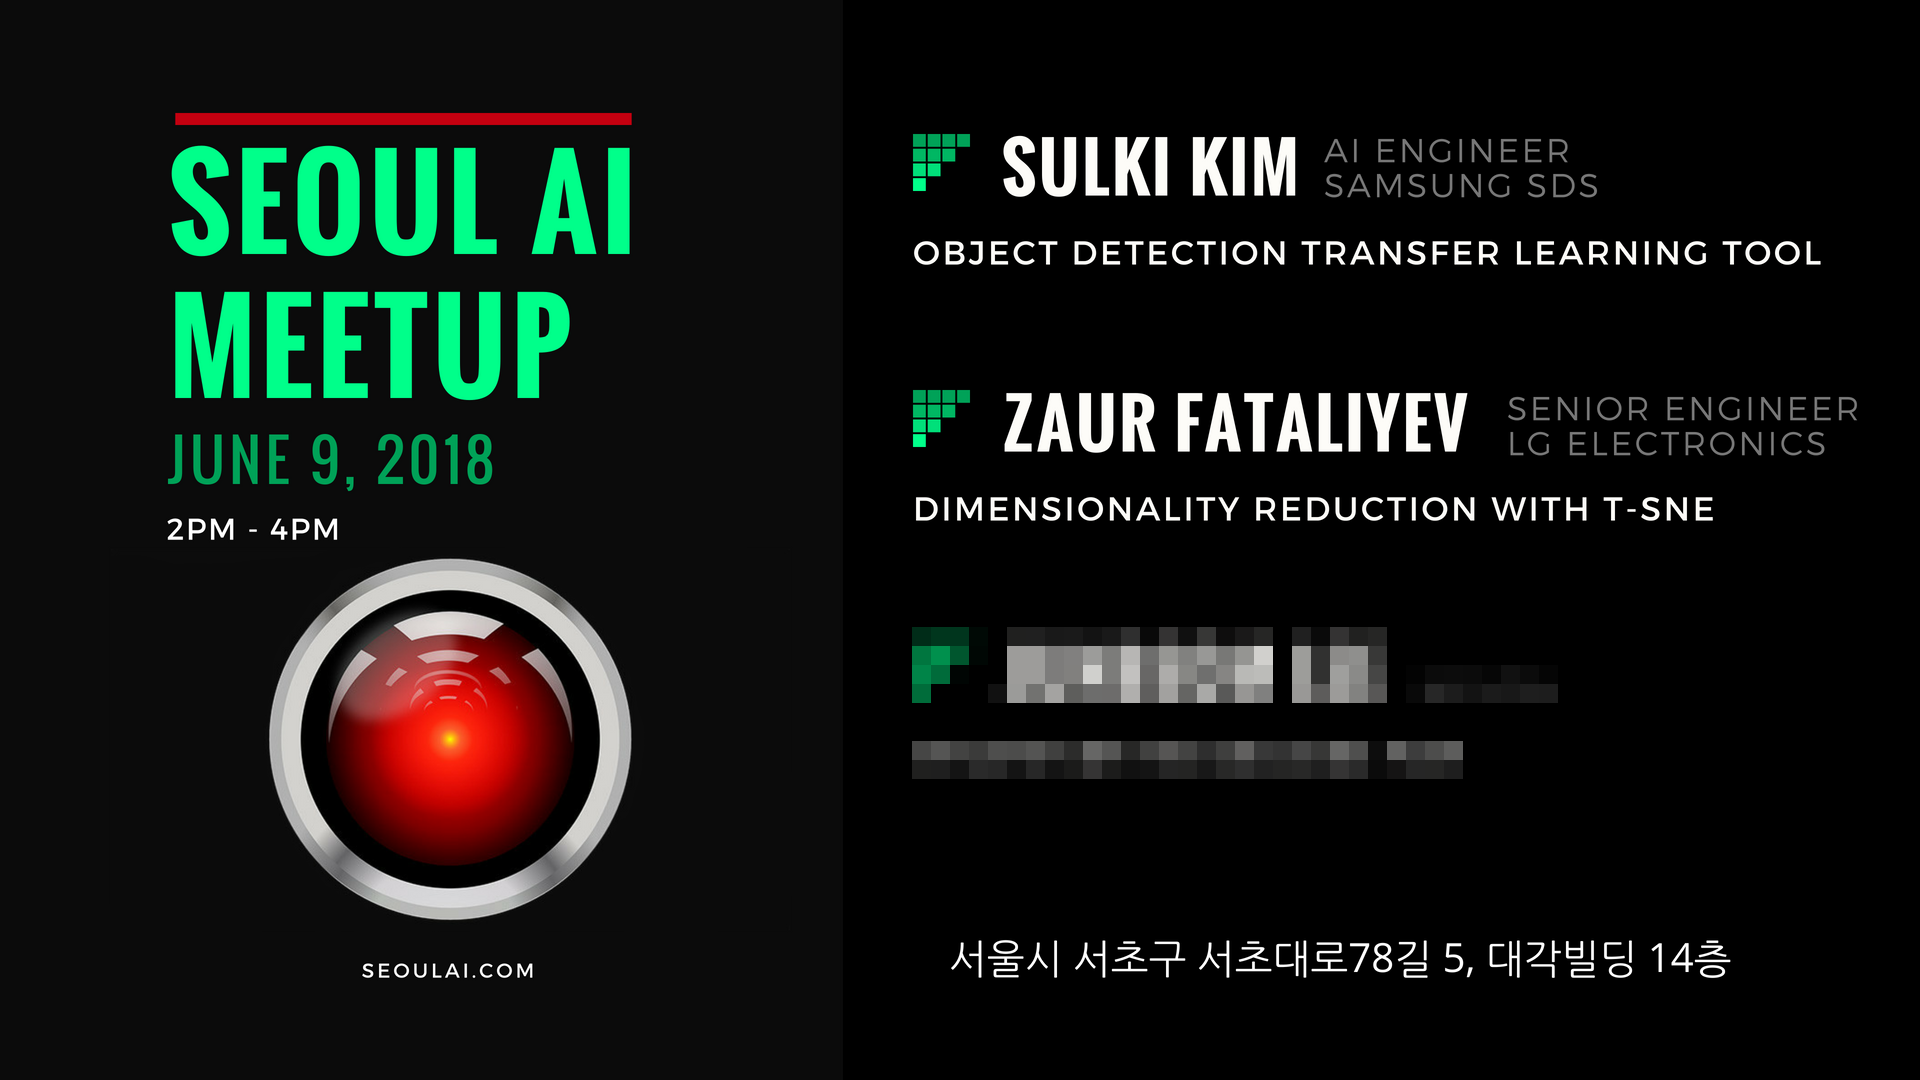
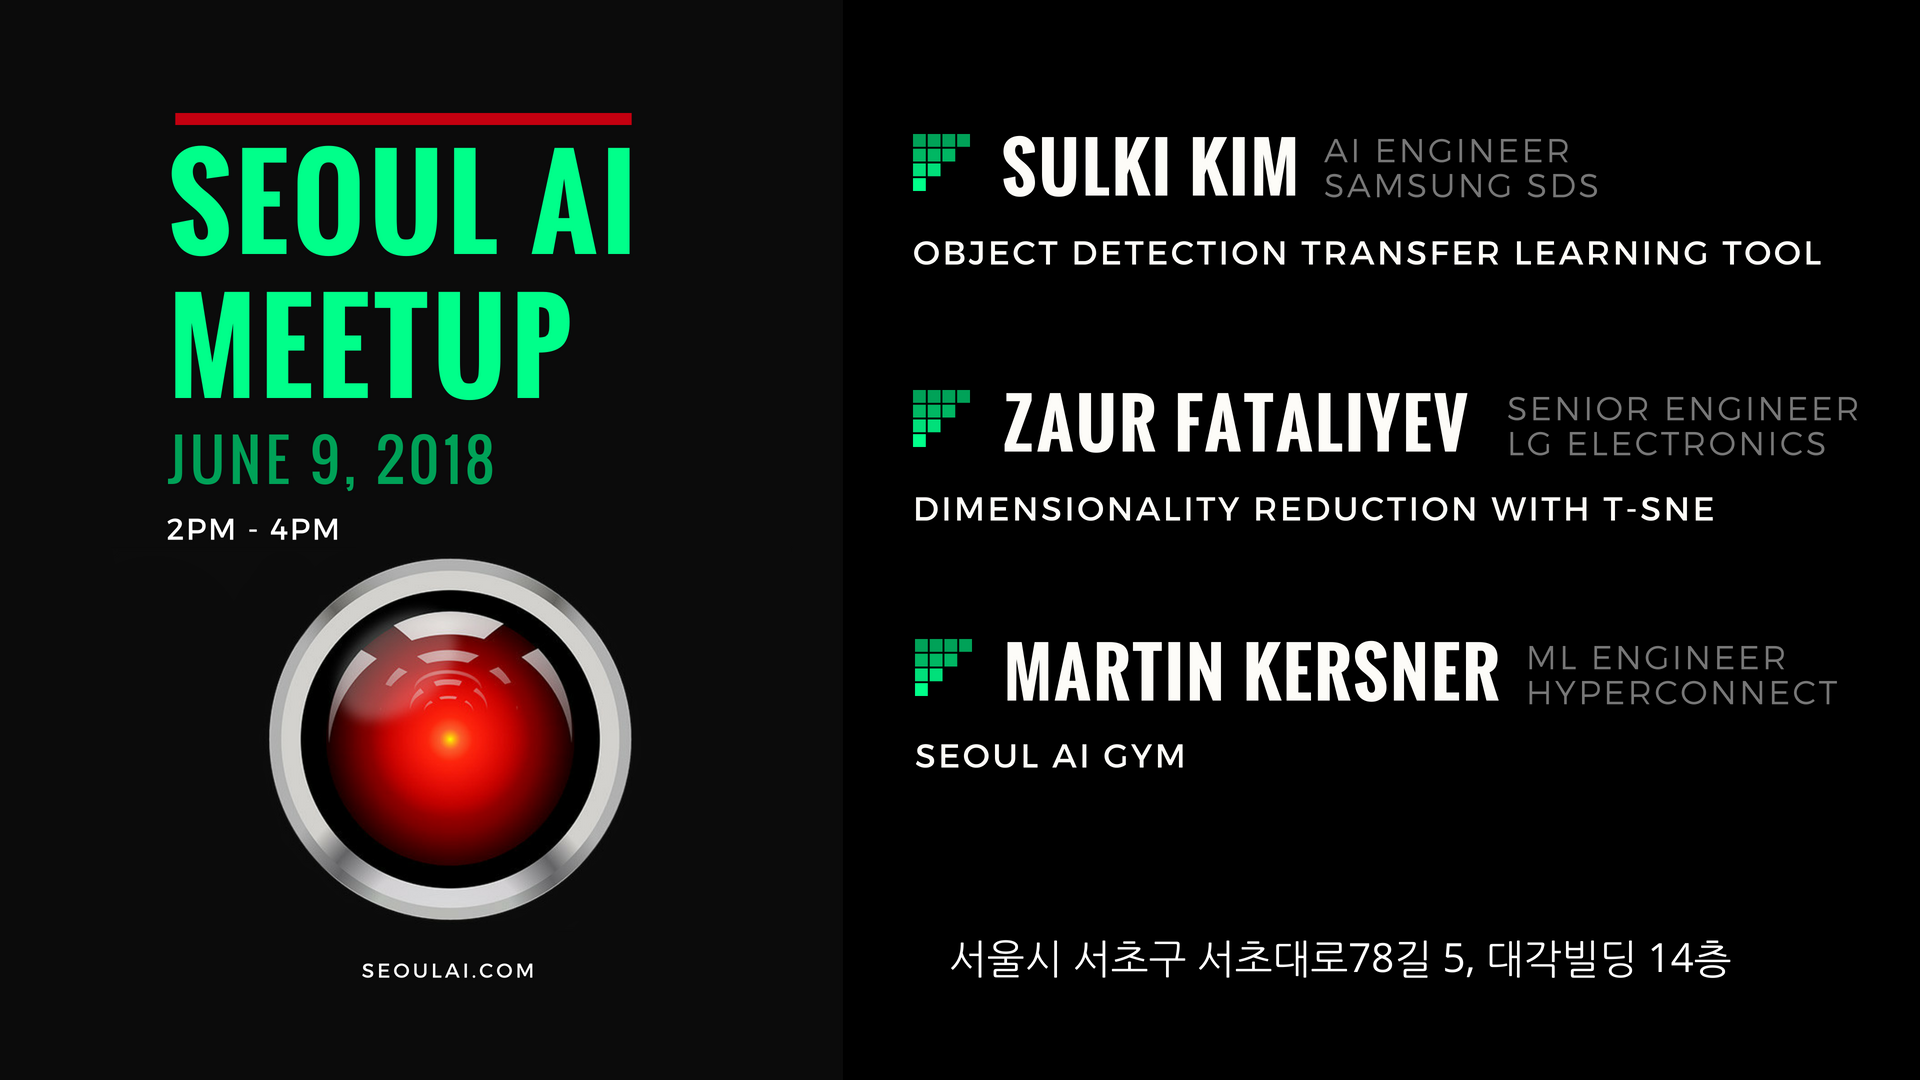
june 9, martin description

Changed region(s): [[0.4688, 0.5806, 0.9375, 0.7333]]

diff --git a/docs/index.md b/docs/index.md
@@ -24,7 +24,7 @@ Saturday, June 9, 2018
 
 02:45 - 3:20 Dimensionality Reduction with t-SNE (Zaur Fataliyev)
 
-03:20 - 04:00 TBD
+03:20 - 04:00 Seoul AI Gym ([Martin Kersner](members/martin))
 
 <!--10:00 - 10:30 1-3 minutes pitch of your topic-->
 
@@ -56,6 +56,22 @@ Currently working as a Senior Engineer at LG Electronics. Graduated from KAIST (
 
 ##### Dimensionality Reduction with t-SNE
 t-SNE is a nonlinear dimensionality reduction technique well-suited for embedding high-dimensional data for visualization in a low-dimensional space of two or three dimensions. It models each high-dimensional object by a two- or three-dimensional point in such a way that similar objects are modeled by nearby points and dissimilar objects are modeled by distant points with high probability.
+
+
+#### Martin Kersner
+[https://www.linkedin.com/in/martinkersner/](https://www.linkedin.com/in/martinkersner/)
+
+Martin is currently working as Machine Learning Engineer at Hyperconnect.
+His bigest passion is learning new things and solving interesting problems.
+
+##### Seoul AI Gym
+[Seoul AI Gym](https://github.com/seoulai/gym) is a toolkit for developing AI algorithms.
+This gym simulates environments and enables you to apply any teaching technique on agent.
+Seoul AI Gym was inspired by [OpenAI Gym](https://github.com/openai/gym) and tries to follow its API very closely.
+There are two terms that are important to understand: *Environment* and *Agent*.
+An environment is a world (simulation) with which an agent can interact.
+An agent can observe a world and act based on its decision.
+Seoul AI Gym currently provides [Checkers](https://en.wikipedia.org/wiki/Draughts) environment.
 
 
 <!--### Details-->
